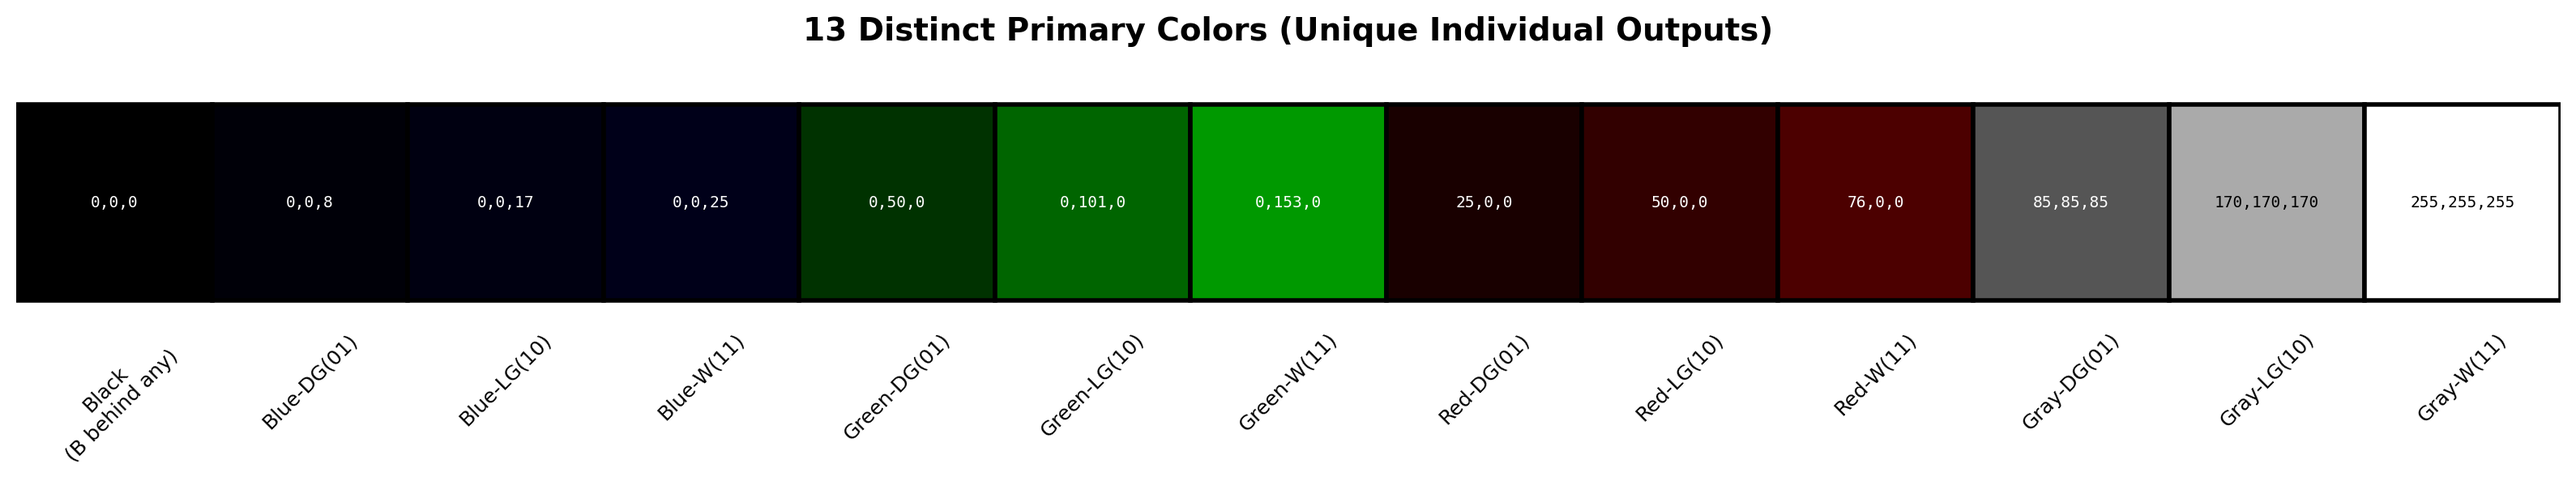
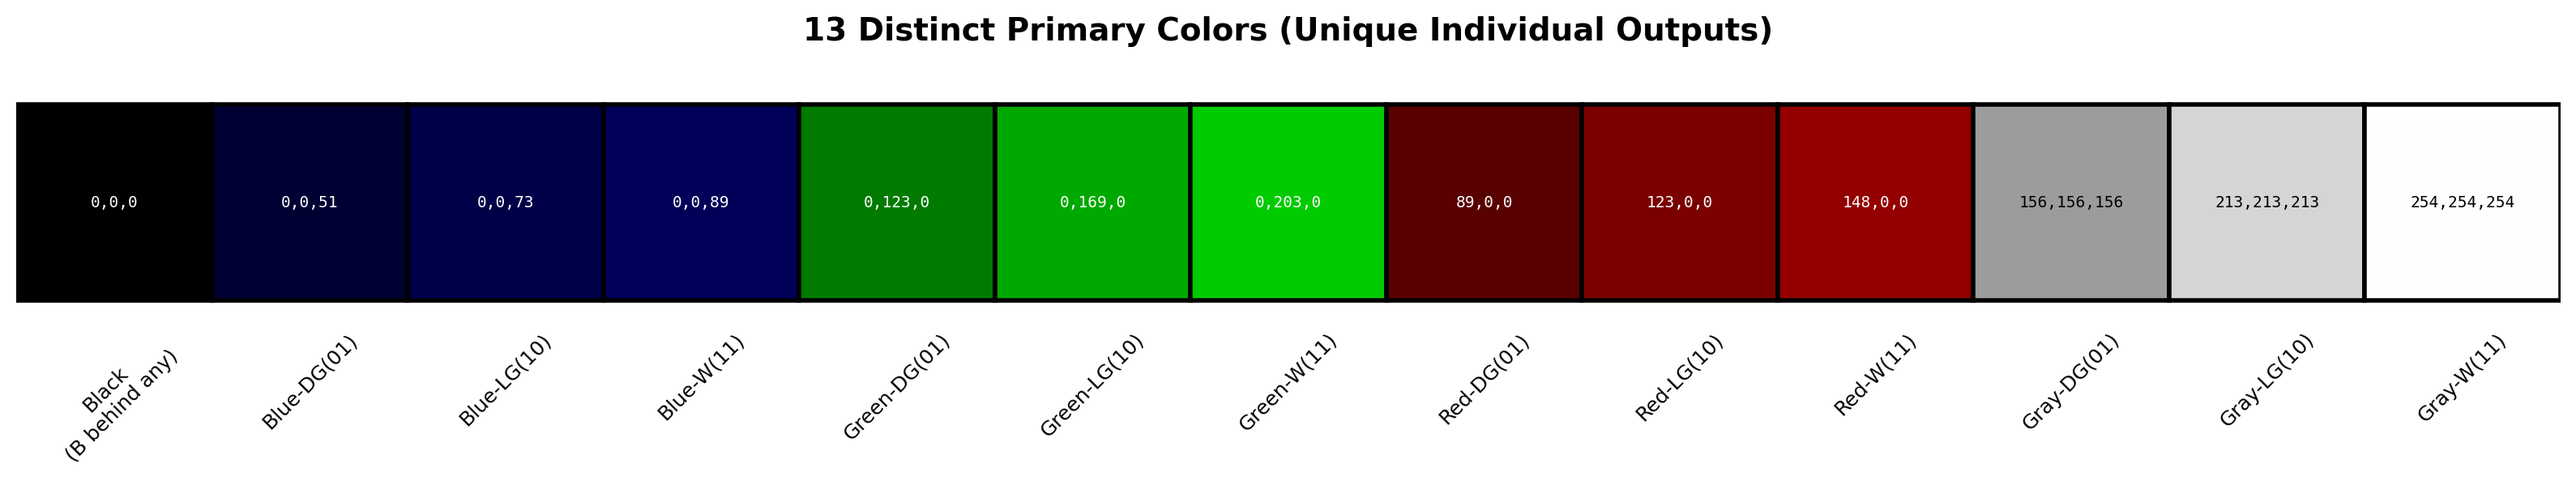
Add sRGB gamma correction for proper screen display
Apply linear-to-sRGB gamma correction to all visualizations:
- Reflective e-ink physics is linear (reflectance × transmission)
- Monitors expect sRGB (gamma ~2.2)
- Conversion makes dim colors (blues) properly visible on screen

Formula: sRGB = 1.055 × linear^(1/2.4) - 0.055 (for linear > 0.0031)

Result: Blues now visible (B: 51-89 instead of 8-25)
All colors display correctly for testing on emissive displays

diff --git a/rgbw_swatches.py b/rgbw_swatches.py
@@ -24,19 +24,38 @@ GRAY_NAMES = ['B(00)', 'DG(01)', 'LG(10)', 'W(11)']
 FILTERS = ['B', 'G', 'R', 'W']
 FILTER_NAMES = ['Blue Filter', 'Green Filter', 'Red Filter', 'White Filter']
 
+def linear_to_srgb(linear):
+    """Convert linear RGB (0-1) to sRGB (0-1) with gamma correction."""
+    if linear <= 0.0031308:
+        return linear * 12.92
+    else:
+        return 1.055 * (linear ** (1/2.4)) - 0.055
+
 def gray_to_rgb(gray_level, filter_type):
-    """Calculate RGB for gray level behind CFA filter (reflective display)."""
+    """
+    Calculate RGB for gray level behind CFA filter (reflective display).
+    Returns linear RGB values with proper gamma correction for screen display.
+    """
+    # Reflectance is linear (0-1)
     reflectance = gray_level / 255.0
 
+    # Calculate linear RGB based on filter transmission
     if filter_type == 'B':
-        return (0, 0, int(reflectance * K_B * 255))
+        r_lin, g_lin, b_lin = 0.0, 0.0, reflectance * K_B
     elif filter_type == 'G':
-        return (0, int(reflectance * K_G * 255), 0)
+        r_lin, g_lin, b_lin = 0.0, reflectance * K_G, 0.0
     elif filter_type == 'R':
-        return (int(reflectance * K_R * 255), 0, 0)
+        r_lin, g_lin, b_lin = reflectance * K_R, 0.0, 0.0
     elif filter_type == 'W':
-        lum = int(reflectance * K_W * 255)
-        return (lum, lum, lum)
+        lum = reflectance * K_W
+        r_lin, g_lin, b_lin = lum, lum, lum
+
+    # Apply gamma correction for proper screen display
+    r_srgb = linear_to_srgb(r_lin)
+    g_srgb = linear_to_srgb(g_lin)
+    b_srgb = linear_to_srgb(b_lin)
+
+    return (int(r_srgb * 255), int(g_srgb * 255), int(b_srgb * 255))
 
 def create_systematic_swatches():
     """Create systematic 4×4 grid of filter×gray combinations."""

diff --git a/rgbw_quad_combinations.py b/rgbw_quad_combinations.py
@@ -20,18 +20,38 @@ K_W = 1.00
 GRAY_LEVELS = {'B': 0, 'DG': 85, 'LG': 170, 'W': 255}
 FILTERS = ['B', 'W', 'G', 'R']  # CFA quad positions
 
+def linear_to_srgb(linear):
+    """Convert linear RGB (0-1) to sRGB (0-1) with gamma correction."""
+    if linear <= 0.0031308:
+        return linear * 12.92
+    else:
+        return 1.055 * (linear ** (1/2.4)) - 0.055
+
 def gray_to_rgb(gray_level, filter_type):
-    """Calculate RGB for gray level behind filter."""
+    """
+    Calculate RGB for gray level behind CFA filter (reflective display).
+    Applies gamma correction for proper screen display.
+    """
+    # Reflectance is linear (0-1)
     reflectance = gray_level / 255.0
+
+    # Calculate linear RGB based on filter transmission
     if filter_type == 'B':
-        return (0, 0, int(reflectance * K_B * 255))
+        r_lin, g_lin, b_lin = 0.0, 0.0, reflectance * K_B
     elif filter_type == 'G':
-        return (0, int(reflectance * K_G * 255), 0)
+        r_lin, g_lin, b_lin = 0.0, reflectance * K_G, 0.0
     elif filter_type == 'R':
-        return (int(reflectance * K_R * 255), 0, 0)
+        r_lin, g_lin, b_lin = reflectance * K_R, 0.0, 0.0
     elif filter_type == 'W':
-        lum = int(reflectance * K_W * 255)
-        return (lum, lum, lum)
+        lum = reflectance * K_W
+        r_lin, g_lin, b_lin = lum, lum, lum
+
+    # Apply gamma correction for proper screen display
+    r_srgb = linear_to_srgb(r_lin)
+    g_srgb = linear_to_srgb(g_lin)
+    b_srgb = linear_to_srgb(b_lin)
+
+    return (int(r_srgb * 255), int(g_srgb * 255), int(b_srgb * 255))
 
 def quad_to_color(gray_levels):
     """
